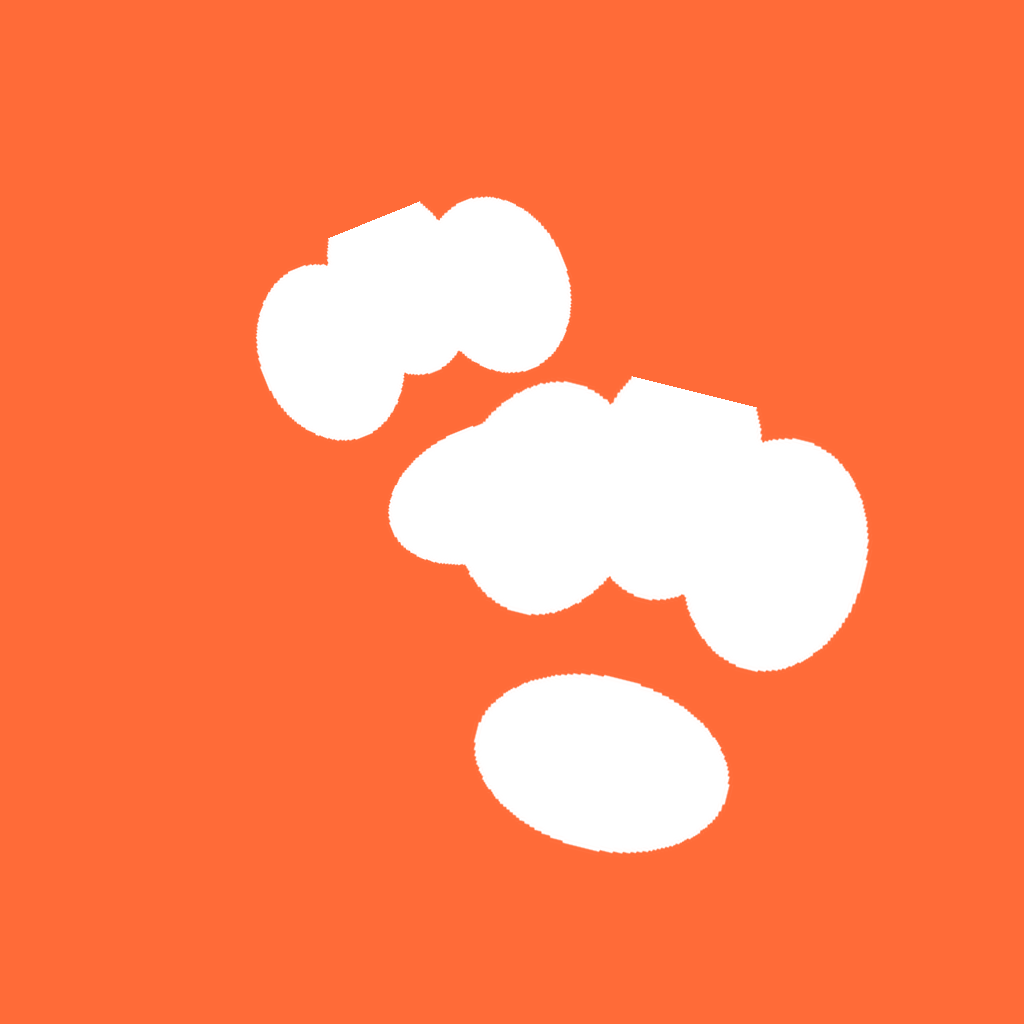
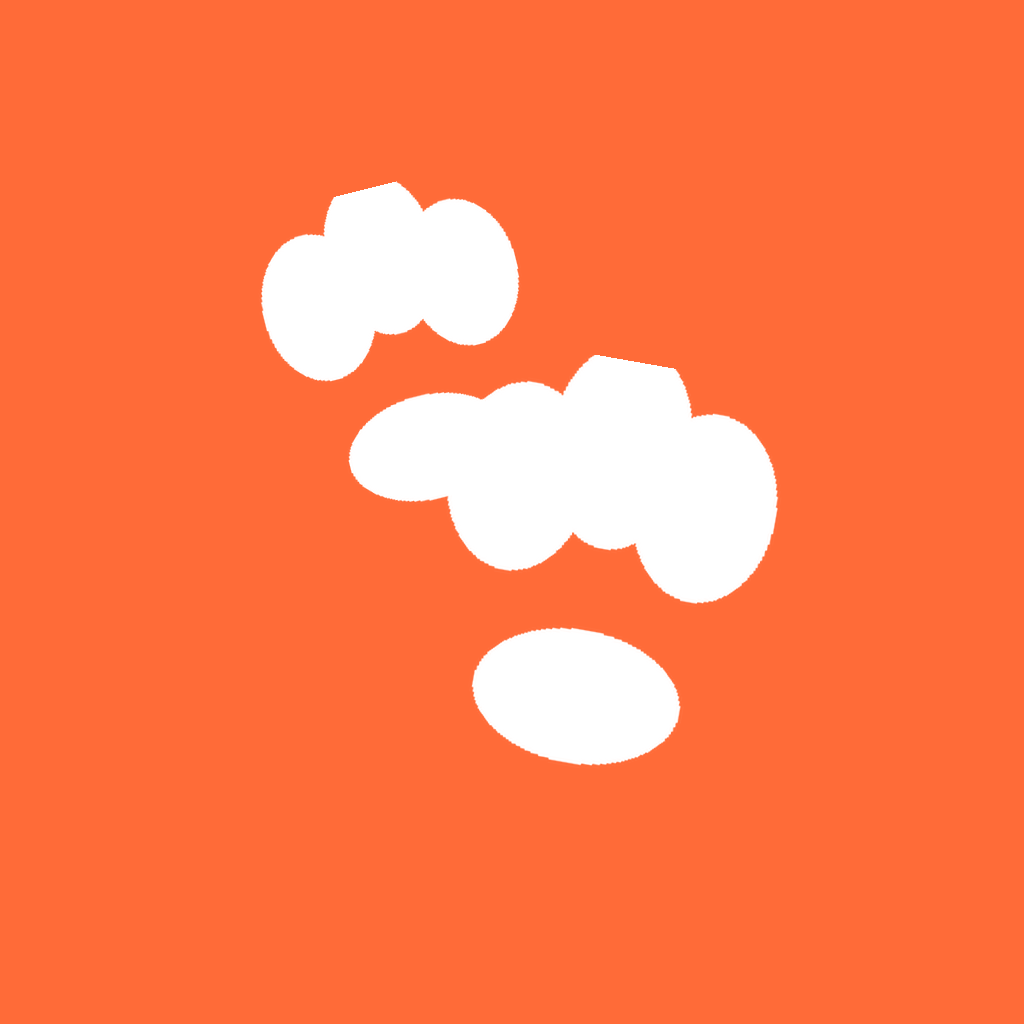
Keep all three toes visible inside the orange disc.

Changed region(s): [[0.25, 0.1562, 0.875, 0.8438]]

diff --git a/frontend/src/components/PetsyLogo.tsx b/frontend/src/components/PetsyLogo.tsx
@@ -14,30 +14,30 @@ type Size = 'sm' | 'md' | 'lg' | 'xl' | number;
 const SIZE_MAP = { sm: 36, md: 56, lg: 88, xl: 128 };
 
 function Paw({ size, color = Brand.colors.white }: { size: number; color?: string }) {
-  const toe = size * 0.22;
+  const toe = size * 0.2;
   return (
-    <View style={{ width: size, height: size * 1.15, alignItems: 'center' }}>
-      <View style={{ flexDirection: 'row', alignItems: 'flex-end', gap: size * 0.07 }}>
-        {[0.88, 1, 0.88].map((scale, i) => (
+    <View style={{ width: size, height: size * 1.12, alignItems: 'center', justifyContent: 'center' }}>
+      <View style={{ flexDirection: 'row', alignItems: 'flex-end', justifyContent: 'center', gap: size * 0.05 }}>
+        {[0.9, 1, 0.9].map((scale, i) => (
           <View
             key={i}
             style={{
               width: toe * scale,
-              height: toe * scale * 1.28,
+              height: toe * scale * 1.22,
               borderRadius: toe,
               backgroundColor: color,
-              marginBottom: i === 1 ? toe * 0.28 : 0,
+              marginBottom: i === 1 ? toe * 0.22 : 0,
             }}
           />
         ))}
       </View>
       <View
         style={{
-          width: size * 0.62,
-          height: size * 0.48,
+          width: size * 0.58,
+          height: size * 0.44,
           borderRadius: size,
           backgroundColor: color,
-          marginTop: size * 0.02,
+          marginTop: size * 0.03,
         }}
       />
     </View>
@@ -70,11 +70,11 @@ export function PetsyMark({
   const discStyle = useAnimatedStyle(() => ({ transform: [{ scale: disc.value }] }));
   const aStyle = useAnimatedStyle(() => ({
     opacity: pawA.value,
-    transform: [{ translateY: (1 - pawA.value) * 6 }, { rotate: '-18deg' }],
+    transform: [{ translateY: (1 - pawA.value) * 6 }, { rotate: '-12deg' }],
   }));
   const bStyle = useAnimatedStyle(() => ({
     opacity: pawB.value,
-    transform: [{ translateY: (1 - pawB.value) * 6 }, { rotate: '12deg' }],
+    transform: [{ translateY: (1 - pawB.value) * 6 }, { rotate: '10deg' }],
   }));
 
   return (
@@ -93,13 +93,13 @@ export function PetsyMark({
         discStyle,
       ]}
     >
-      {/* small lead print */}
-      <Animated.View style={[{ position: 'absolute', left: s * 0.22, top: s * 0.18 }, aStyle]}>
-        <Paw size={s * 0.38} />
+      {/* small lead print — kept inside the disc so all 3 toes stay visible */}
+      <Animated.View style={[{ position: 'absolute', left: s * 0.26, top: s * 0.2 }, aStyle]}>
+        <Paw size={s * 0.34} />
       </Animated.View>
-      {/* larger trail print, closer */}
-      <Animated.View style={[{ position: 'absolute', left: s * 0.34, top: s * 0.36 }, bStyle]}>
-        <Paw size={s * 0.48} />
+      {/* larger trail print */}
+      <Animated.View style={[{ position: 'absolute', left: s * 0.36, top: s * 0.38 }, bStyle]}>
+        <Paw size={s * 0.44} />
       </Animated.View>
     </Animated.View>
   );
